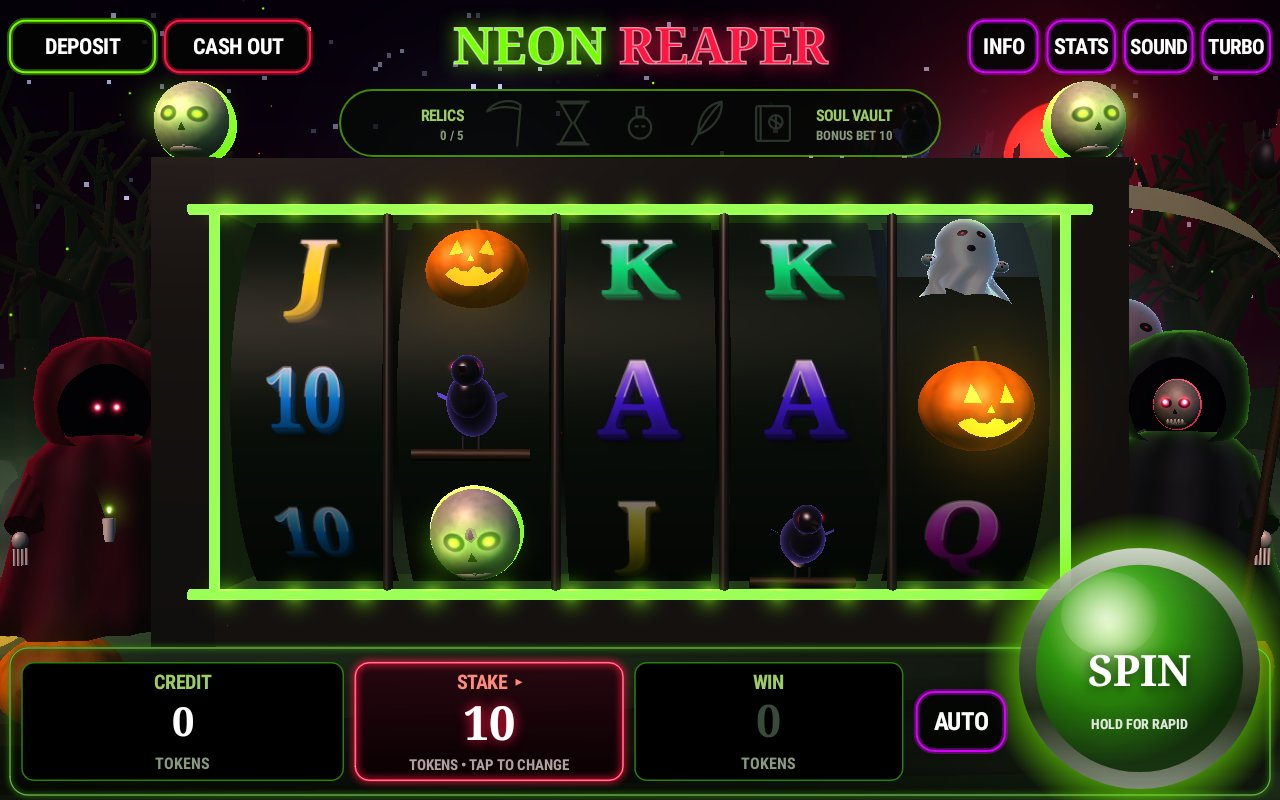
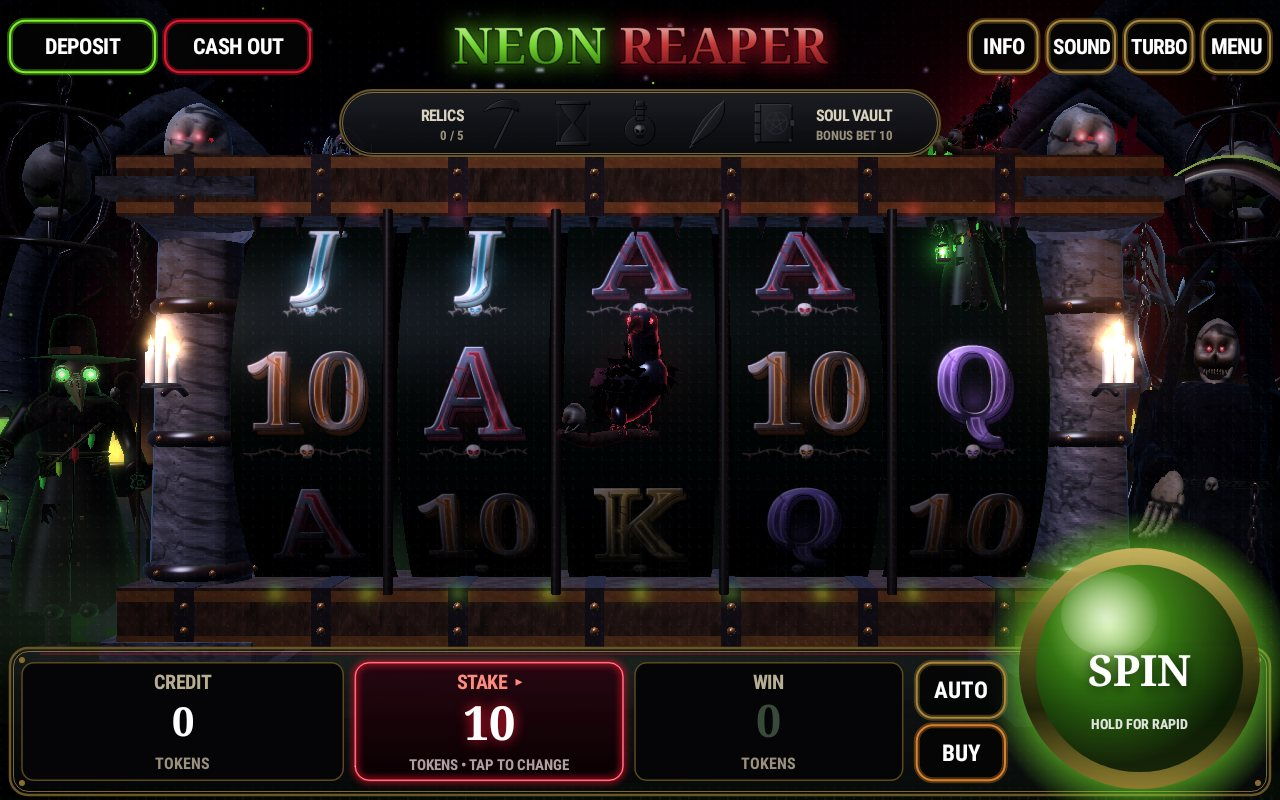
README for 3.0 with new screenshots; Cast reset per GL context; merge ART final
Claude-Session: https://claude.ai/code/session_01UWi8ZvunJ24iKJFQy597FF

diff --git a/reaper/src/main/java/com/tjshea/neonreaper/gl/chars/CharacterModel.kt b/reaper/src/main/java/com/tjshea/neonreaper/gl/chars/CharacterModel.kt
@@ -31,8 +31,14 @@ object Cast {
 
     private val heroCache = HashMap<Int, CharacterModel?>()
 
+    /**
+     * Forgets every model. The models own GPU buffers (uploaded lazily on the GL thread); after an EGL context loss a new Scene3D
+     * is created and those buffer ids are meaningless, so the registry must be rebuilt for each scene (see Scene3D.init).
+     */
+    @Synchronized fun reset() { cache.clear(); heroCache.clear() }
+
     /** Builds every model once (CPU only) so none of them causes a hitch the first time it appears on the reels. */
-    fun warm() {
+    @Synchronized fun warm() {
         for (sym in 0 until ReaperConfig.SYMBOL_COUNT) get(sym)
         hero(ReaperConfig.WILD)
     }

diff --git a/reaper/src/main/java/com/tjshea/neonreaper/gl/Scene3D.kt b/reaper/src/main/java/com/tjshea/neonreaper/gl/Scene3D.kt
@@ -95,6 +95,7 @@ class Scene3D(private val gl: Gl) {
         blit = Program(gl, PostShaders.QUAD_VS, PostShaders.BLIT_FS, "blit")
         buildMeshes()
         buildProps()
+        Cast.reset()          // models cache GPU buffers: never reuse them across GL contexts
         Cast.warm()
         post = PostFx(gl, mScreen)
         noiseTex = gl.genTexture()

diff --git a/README.md b/README.md
@@ -8,43 +8,56 @@
 
 | Game | APK | Theme |
 |------|-----|-------|
-| **Neon Reaper** | [`release/NeonReaper.apk`](release/NeonReaper.apk) (~250 KB) | Dark horror: reapers, hooded watchers, neon green & blood red. **94 % RTP**, Soul Vault bonus |
+| **Neon Reaper** | [`release/NeonReaper.apk`](release/NeonReaper.apk) (~550 KB) | **3.0 "DREAD"** — gothic horror 3D slot: Grim Reaper, Plague Doctor, Cursed Skull, Blood Raven, Demon, Wraith, haunted coffins. **94 % RTP**, THE SÉANCE free spins, Soul Vault bonus, feature buy |
 | **Dragon's Hoard** | [`release/DragonsHoard.apk`](release/DragonsHoard.apk) (~115 KB) | Red & gold Asian fortune. **94 % RTP**, free spins |
 
 Both run on Android 10 (Go) and up (MT8168 / armv7 tested target), share the same currency and password security, and are separate apps (they can be installed side by side).
 
 ---
 
-# Neon Reaper
+# Neon Reaper 3.0 — DREAD
 
 ![Neon Reaper](docs/reaper_idle.jpg)
 
-- **Stake:** one STAKE button, 1–40 tokens (1, 2, 3, 4, 5, 8, 10, 15, 20, 25, 30, 40).
-- **20 lines**, pays are whole multiples of the stake, so **every win is exact tokens**. Rounding down to a whole mack happens **only at cash-out** (odd tokens stay on the machine). Max win **25 books (2,000 tokens)** per spin and per bonus.
-- **RTP 94 %** (stakes 1–10; the 25-book win cap trims it a little at higher stakes: 25 → 92.7 %, 40 → 90.9 %): over time the machine keeps **6 % of every token wagered**. About **1 spin in 3 wins** (33 %) and **every win pays at least your stake back**. See [`docs/MATH.md`](docs/MATH.md).
-- Every win pops up a huge **"YOU WIN 70 TOKENS"**, can't be skipped until shown, and counts up with rising ticks for bigger wins (fanfare for big wins).
-- **Giant SPIN button** — tap for one spin, **hold for rapid spins** until you let go.
-- **Mini features (≈1 spin in 100):** a 3D character floats out in front of the reels — Reaper's Touch (wild reels), Raven's Flock (3–6 wilds), Pumpkin's Treats (3–6 soul coins worth their token value), Skull's Curse (2 wilds + ×2/×3/×5).
-- **OpenGL ES 3 3D engine (v2.0):** real 3D reel drums, a moonlit graveyard (tombstones, dead trees, fog, fireflies, bats, lightning) and individually modelled Halloween characters with per-pixel lighting — a skull-faced Grim Reaper with a scythe, a red-eyed crimson Hooded Watcher holding a candle, a chattering skull, a cawing raven, a flickering jack-o'-lantern and a wailing ghost. Falls back to the 2D renderer on devices without OpenGL ES 3.
-- **Reaper's Touch:** the Grim Reaper swoops in and slashes 1–3 middle reels fully wild.
-- **Relics → Soul Vault bonus:** about 1 spin in 25 reveals one of 5 relics (kept between sessions). Collect all 5 (≈ every 125 spins) to open the **Soul Vault**, a separate hold-and-spin screen:
-  its own epic soundtrack, 5 starting orbs, 3 respins (press SPIN for each) that reset whenever an orb lands; orbs worth 1×–25× the bonus bet; MINI 15×, MINOR 40×, MAJOR 150× jackpot orbs;
-  the Reaper orb harvests every soul on the board; fill all 20 niches for the GRAND (1000×). Averages ~28× the bonus bet. The bonus bet is the **average stake of the five spins that revealed your relics, rounded down** — no pattern of stakes (big bets at the last relic, bets timed to relic count, mixing stakes) can earn a bigger bonus than the tokens you actually wagered.
-- Big/Huge/Massive/Deadly win celebrations with the reaper rising, characters looming out of the reels on 5-of-a-kind, lightning, bats, fog, soul particles, synthesized horror music (separate bonus track) and sound effects.
+A dark, scary 3D video slot (OpenGL ES 3 engine behind a Canvas HUD, Android 10 Go → Android 16, auto quality tiers for weak GPUs). The reels are drawn in a crypt cabinet of carved
+pillars, iron-strapped beams, burning skulls and chained cages; the cast are real animated 3D models with per-pixel lighting, bloom, fog and a blood-red mood in the bonus.
 
-| Reaper's Touch | Big win | Soul Vault |
+- **Stake:** one STAKE button, 1–40 tokens (1, 2, 3, 4, 5, 8, 10, 15, 20, 25, 30, 40). **20 lines**, every payout is a whole number of tokens; rounding to a whole mack happens only at cash-out.
+- **Cast:** Grim Reaper (wild), Plague Doctor, Cursed Skull, Blood Raven, Demon, Wraith, carved A K Q J 10, and the **Coffin** scatter.
+- **RTP 94 %** (stakes 1–5; the 25-book win cap trims it at high stakes: ≈ 93.8 % at 10, ≈ 92 % at 25, ≈ 89 % at 40) → the house keeps **6 % of every token wagered, whatever you do**. Plain spins win 1 time in 3.2 and **every win pays at least your stake back**.
+  See [`docs/MATH.md`](docs/MATH.md) (PAR sheet) and the independent audit [`docs/AUDIT_v3.md`](docs/AUDIT_v3.md).
+- **Win tiers:** SOUL REAPED (10×), DEATH'S TOLL (25×), HELLFIRE (50×), APOCALYPSE (100×) — one stinger per tier, the title slams in on the hit. Big wins count up with rising ticks and can't be skipped until shown.
+- **Anticipation:** when two coffins land the remaining reels slow down, the room reddens and a heartbeat builds (it only ever reflects what really landed).
+- **Mini features (about 1 spin in 154):** Reaper's Touch (wild reels), Murder of Crows (wilds), Demon's Bargain (soul coins worth tokens), Skull's Curse (wilds + ×2/×3/×5), each performed by its 3D character.
+
+| THE SÉANCE | Free spins, multiplier ×1…×10 | Feature Buy |
 |---|---|---|
-| ![](docs/reaper_touch.jpg) | ![](docs/reaper_bigwin.jpg) | ![](docs/reaper_vault.jpg) |
+| ![](docs/reaper_seance.jpg) | ![](docs/reaper_freespins.jpg) | ![](docs/reaper_buy.jpg) |
 
-| Pumpkin's Treats | Raven's Flock |
+- **THE SÉANCE** (coffins anywhere: 3 / 4 / 5 pay 2× / 10× / 50× your stake **and** give 8 / 12 / 20 free spins, about 1 round in 213 spins, ≈ 30× stake on average): giant chained coffins rise and burst open, the music turns,
+  free spins play on richer reels with a **multiplier that climbs ×1, ×2 … ×10**, more coffins add spins, and a closing tally counts the total. The round is paid and saved with the trigger, so it replays identically after a crash.
+- **Relics → Soul Vault:** about 1 spin in 27 reveals one of 5 relics (kept between sessions). With all five the **Soul Vault** opens — a hold-and-respin crypt: 5 starting soul orbs, 3 respins that reset when an orb lands,
+  orbs worth 1×–25× the bonus bet, MINI 15× / MINOR 40× / MAJOR 150× jackpot skulls, the Reaper orb harvests every soul, fill the board for the GRAND (1000×); about 28× the bonus bet on average.
+  The bonus bet is the **average stake of the five relic-revealing spins, rounded down** — no staking pattern can make it worth more than the tokens you actually wagered.
+- **Feature Buy:** skip the wait — THE SÉANCE or the SOUL VAULT for 31× your stake. Priced above their exact expected payout (they return about 92.8 % / 91.5 %, **less** than normal play), and a bought round that pays back less than it cost is never celebrated.
+
+| Reaper's Touch | Demon's Bargain | Big win |
+|---|---|---|
+| ![](docs/reaper_touch.jpg) | ![](docs/reaper_demon.jpg) | ![](docs/reaper_bigwin.jpg) |
+
+| Soul Vault | The vault pays |
 |---|---|
-| ![](docs/reaper_coins.jpg) | ![](docs/reaper_raven.jpg) |
+| ![](docs/reaper_vault.jpg) | ![](docs/reaper_vault_win.jpg) |
 
-**Math verification** (`reaper/src/test/.../engine`): the RTP budget is *calculated exactly* — base game 59.34 % + mini features 11.98 % +
-Soul Vault 22.68 % = **94.00 %** (`RtpExactTest`, `tools/reaper_model.py`) — and cross-checked against simulations of the real engine code
-(`FullGameTest`: 4 M spins at each of 5 stakes, 94.05 / 93.99 / 93.89 / 92.84 / 90.87 % at stakes 1 / 5 / 10 / 25 / 40, hit rate 34 %).
-`CalibrationTest` measures the 25-book cap per stake; `NoExploitTest` replays adaptive staking policies on the real engine and fails if
-any beats 94 % (two earlier bonus-bet rules leaked 98 % and 101–104 % — found by testing and an independent audit, fixed, see `docs/MATH.md`).
+- **Sound:** a fully procedural dark score (BASE / SÉANCE / VAULT, layers that fade in with the action) and 74 effects, rendered on first launch and cached (no audio assets in the APK).
+- **Player protection (like regulated brands):** session time, wagered, won and net result in Stats; a **reality check** every 30 minutes (15 / 30 / 60 / off); **autoplay limits** (stop on a single win of N× stake, stop when credit drops by N %);
+  a **reduce flashing** option; no "losses disguised as wins", no free-credit promos, no progressive jackpots. Rank and the Reaper's Ledger (achievements) are purely cosmetic.
+- **Controls:** giant SPIN (tap, or hold for rapid), AUTO, BUY, STAKE, TURBO, SOUND, INFO (pay table & rules), MENU (settings: quality, flashing, reality check, volumes, rank & ledger, statistics).
+  Deposits, cash-outs and password changes need the machine password (same security model as Dragon's Hoard: PBKDF2 hash, signed credit file, TILT on tampering).
+
+**Math verification** (`reaper/src/test/.../engine`): the RTP budget is *calculated exactly* — base game + minis 57.77 % + coffin pays 1.11 % + THE SÉANCE 14.12 % + Soul Vault 21.00 % = **94.00 %**
+(`RtpExactTest`, `tools/reaper_model.py`) — and cross-checked against simulations of the real engine (`FullGameTest`, `CalibrationTest` measures the 25-book cap per stake, `NoExploitTest` replays adaptive staking / buying policies).
+An independent audit (`docs/AUDIT_v3.md`, `tools/audit/`, `*Audit*Test`) enumerated all 2.2·10⁹ reel combinations and could not beat the house with any staking, buying, timing, rounding, crash or file-edit trick.
 
 ---
 
